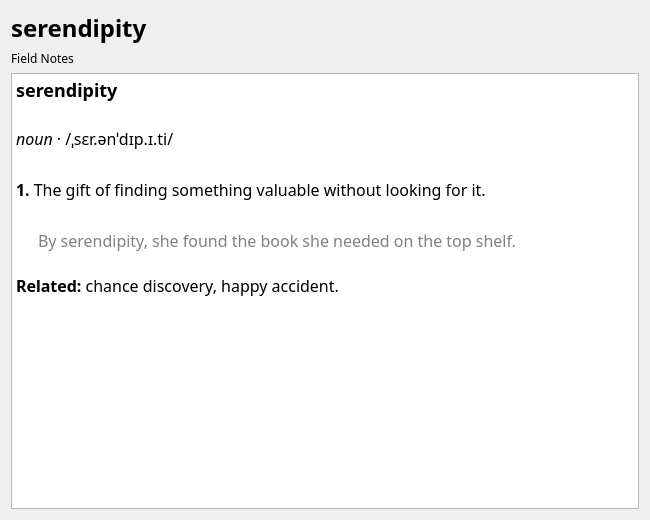
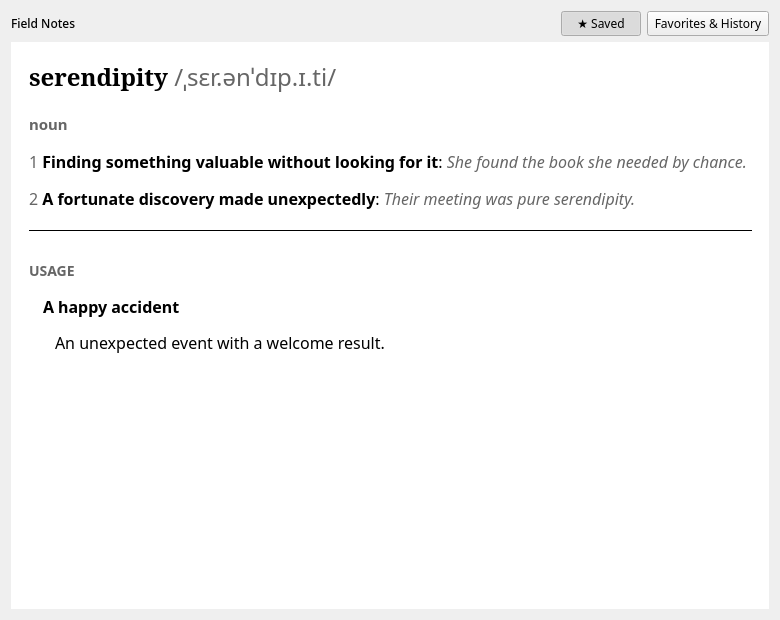
Document and preview article styling and saved words

diff --git a/src/settingswidget.cpp b/src/settingswidget.cpp
@@ -4,6 +4,7 @@
 
 #include <QDir>
 #include <QDirIterator>
+#include <QDateTime>
 #include <QFile>
 #include <QFileDialog>
 #include <QFormLayout>
@@ -104,11 +105,15 @@ SettingsWidget::SettingsWidget(QWidget *parent) : QWidget(parent)
     });
 
     auto *activityPage = new QWidget(m_tabs);
-    m_tabs->addTab(activityPage, i18nd("wordspring-runner", "Favorites & History"));
+    m_tabs->addTab(activityPage, i18nd("wordspring-runner", "Favorites && History"));
     auto *activityLayout = new QVBoxLayout(activityPage);
+    auto *filterRow = new QHBoxLayout;
     m_filter = new QLineEdit(activityPage);
     m_filter->setPlaceholderText(i18nd("wordspring-runner", "Filter saved words and history"));
-    activityLayout->addWidget(m_filter);
+    filterRow->addWidget(m_filter);
+    auto *refresh = new QPushButton(i18nd("wordspring-runner", "Refresh"), activityPage);
+    filterRow->addWidget(refresh);
+    activityLayout->addLayout(filterRow);
     auto *activityTabs = new QTabWidget(activityPage);
     activityLayout->addWidget(activityTabs);
 
@@ -139,6 +144,7 @@ SettingsWidget::SettingsWidget(QWidget *parent) : QWidget(parent)
     activityTabs->addTab(historyPage, i18nd("wordspring-runner", "History"));
 
     connect(m_filter, &QLineEdit::textChanged, this, &SettingsWidget::refreshActivity);
+    connect(refresh, &QPushButton::clicked, this, &SettingsWidget::refreshActivity);
     connect(m_tabs, &QTabWidget::currentChanged, this, [this](int index) { if (index == 1) refreshActivity(); });
     connect(openFavorite, &QPushButton::clicked, this, [this] { openSaved(m_favoritesList); });
     connect(openHistory, &QPushButton::clicked, this, [this] { openSaved(m_historyList); });
@@ -171,18 +177,19 @@ void SettingsWidget::showActivity()
 
 void SettingsWidget::refreshActivity()
 {
-    const auto fill = [](QListWidget *list, const QVector<SavedEntry> &entries) {
+    const auto fill = [](QListWidget *list, const QVector<SavedEntry> &entries, bool showTime) {
         list->clear();
         for (const auto &entry : entries) {
-            auto *item = new QListWidgetItem(entry.headword + QStringLiteral("  ·  ") + entry.dictionary, list);
+            const auto time = showTime ? QStringLiteral("  ·  ") + QDateTime::fromMSecsSinceEpoch(entry.timestamp).toString(QStringLiteral("yyyy-MM-dd HH:mm")) : QString();
+            auto *item = new QListWidgetItem(entry.headword + QStringLiteral("  ·  ") + entry.dictionary + time, list);
             item->setToolTip(entry.source);
             item->setData(Qt::UserRole, entry.source);
             item->setData(Qt::UserRole + 1, entry.id);
             item->setData(Qt::UserRole + 2, entry.headword);
         }
     };
-    fill(m_favoritesList, UserState::favorites(m_filter->text()));
-    fill(m_historyList, UserState::history(m_filter->text()));
+    fill(m_favoritesList, UserState::favorites(m_filter->text()), false);
+    fill(m_historyList, UserState::history(m_filter->text()), true);
 }
 
 void SettingsWidget::openSaved(QListWidget *list)

diff --git a/README.md b/README.md
@@ -1,10 +1,10 @@
 # Wordspring Runner
 
-An offline dictionary lookup plugin for Plasma 6 KRunner. Type `define word` to see up to four short meanings from each enabled dictionary; press Enter to read the full entry in a small article window. The trigger word is configurable.
+An offline dictionary lookup plugin for Plasma 6 KRunner. Type `define word` to see up to four short meanings from each enabled dictionary; press Enter to read the full entry in a styled article window. Save favorite entries and revisit recent lookups from settings. The trigger word is configurable.
 
-| Article | Settings |
-| --- | --- |
-| ![Wordspring article window, using synthetic dictionary content](docs/screenshots/wordspring-article.png) | ![Wordspring dictionary settings, using synthetic dictionary names](docs/screenshots/wordspring-settings.png) |
+| Article | Dictionaries | Favorites and history |
+| --- | --- | --- |
+| ![Wordspring article window, using synthetic dictionary content](docs/screenshots/wordspring-article.png) | ![Wordspring dictionary settings, using synthetic dictionary names](docs/screenshots/wordspring-settings.png) | ![Wordspring saved words settings, using synthetic entries](docs/screenshots/wordspring-activity.png) |
 
 The screenshots use synthetic entries. No dictionary data is included in the repository or releases.
 
@@ -13,7 +13,8 @@ The screenshots use synthetic entries. No dictionary data is included in the rep
 - Import original macOS `.dictionary` bundles directly, or StarDict `.ifo` files with their companion `.idx`, `.dict` or `.dict.dz`, and optional `.syn` files.
 - Add a folder to discover multiple dictionary bundles and StarDict files. Enable, disable, reorder, reimport, or remove sources in settings. Each source has an editable short label for KRunner; for example, Oxford Dictionary of English defaults to **ODE**.
 - Keep an indexed SQLite copy of each dictionary in your XDG data directory. Lookup opens only the enabled databases and never runs the importer.
-- Preserve basic article structure, examples, part-of-speech emphasis, and internal word links. Original Apple CSS, audio, and embedded images are not included.
+- Use the Apple bundle's semantic markup to distinguish headwords, pronunciation, parts of speech, numbered senses, examples, phrases, and origins. Original Apple CSS, audio, and embedded images are not included.
+- Star an entry in the article window. The **Favorites & History** page lets you filter and reopen saved words, remove favorites, and clear lookup history independently of favorites.
 
 ## Requirements
 
@@ -55,7 +56,7 @@ Use `define run` in KRunner. Selecting a result opens the full entry. Click an i
 
 ## Data and performance
 
-Imported databases live at `$XDG_DATA_HOME/wordspring/dictionaries/` (usually `~/.local/share/wordspring/dictionaries/`). Settings live in `wordspringrc` under the XDG config directory. Reimport replaces a database atomically; a failed import leaves the previous copy available. Removing a source deletes its imported copy but never touches the original dictionary.
+Imported databases live at `$XDG_DATA_HOME/wordspring/dictionaries/` (usually `~/.local/share/wordspring/dictionaries/`). Favorites and recently opened entries live in `$XDG_DATA_HOME/wordspring/state.sqlite`; history is capped at 500 distinct entries. Settings live in `wordspringrc` under the XDG config directory. Reimport replaces a database atomically; a failed import leaves the previous copy available. Removing a source deletes its imported copy but never touches the original dictionary.
 
 On the development machine, the supplied Oxford Dictionary of English produced 114,925 entries and a 144 MB SQLite file. A repeated exact lookup of `run` took about 0.14 ms median with a warm filesystem cache. These numbers are local measurements, not a cross-machine guarantee. Import is a one-time operation; large dictionaries can take tens of seconds. The Apple parser keeps key and cross-reference indexes in memory while importing, but the runtime plugin never loads the whole dictionary.
 
@@ -67,7 +68,7 @@ cmake --build build
 ctest --test-dir build --output-on-failure
 ```
 
-The C++ test checks indexed, Unicode, enabled-source lookup. The Python test builds a tiny StarDict fixture and checks synonym import and HTML filtering. The importer can also be run directly:
+The C++ test checks indexed, Unicode, enabled-source lookup and the independent favorite/history state. The Python test builds a tiny StarDict fixture and checks synonym import, HTML filtering, and Apple-style structure. The importer can also be run directly:
 
 ```bash
 python importer/import_dictionary.py --input /path/to/dictionary.ifo --output /tmp/example.sqlite

diff --git a/CHANGELOG.md b/CHANGELOG.md
@@ -2,6 +2,8 @@
 
 ## 0.1.0
 
+- Styled article sections inspired by Apple Dictionary, with local favorites and recent lookup history.
+- Filter and reopen saved entries, and clear history without removing favorites.
 - Show up to four primary meanings in a multiline KRunner result, with the dictionary name in the category column.
 - Use editable short dictionary labels in KRunner's fixed-width category column.
 - Native Plasma 6 KRunner lookup with a configurable trigger.
